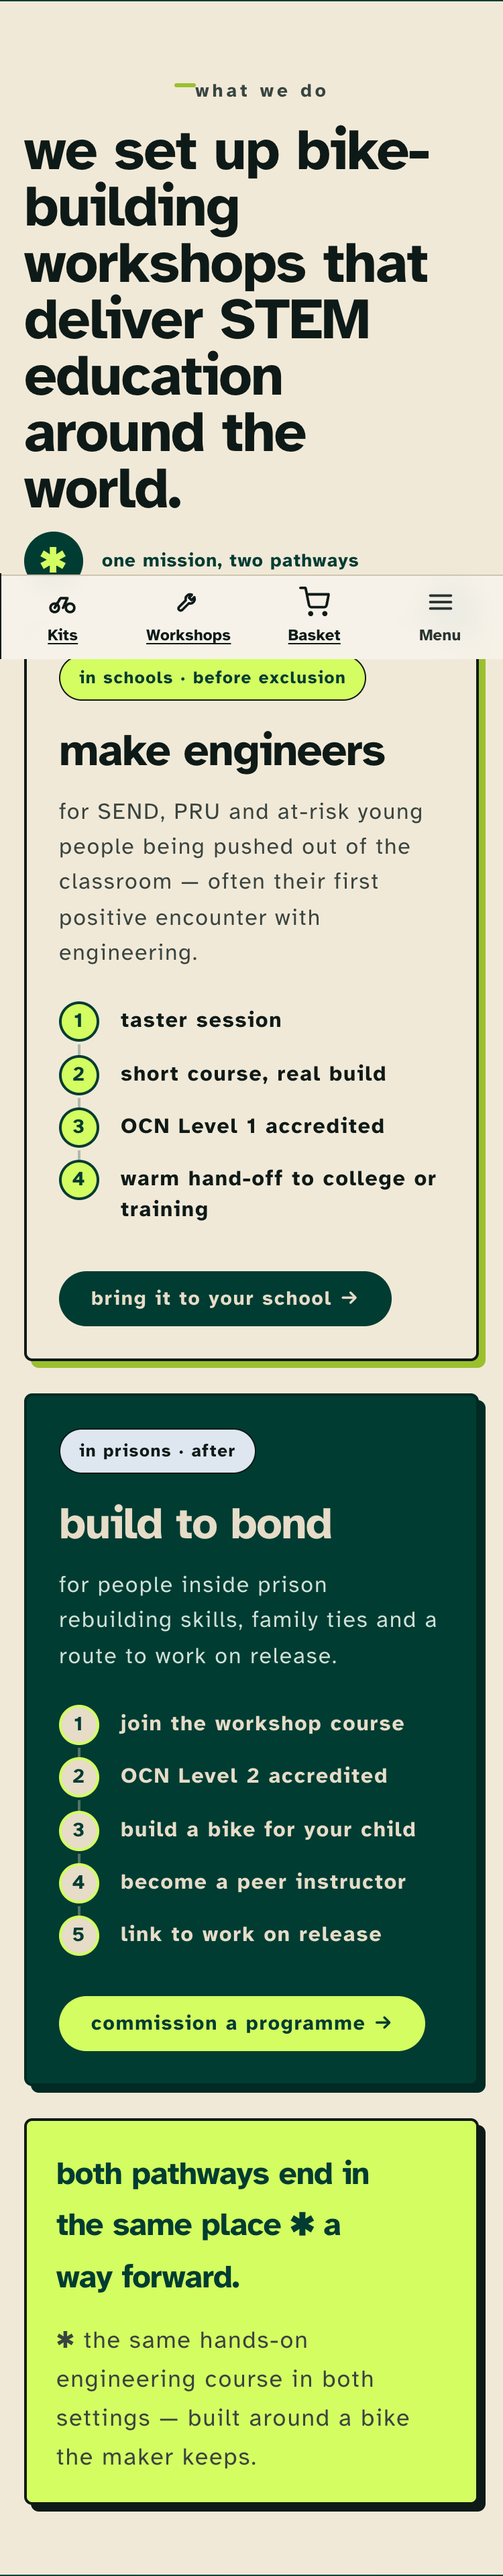
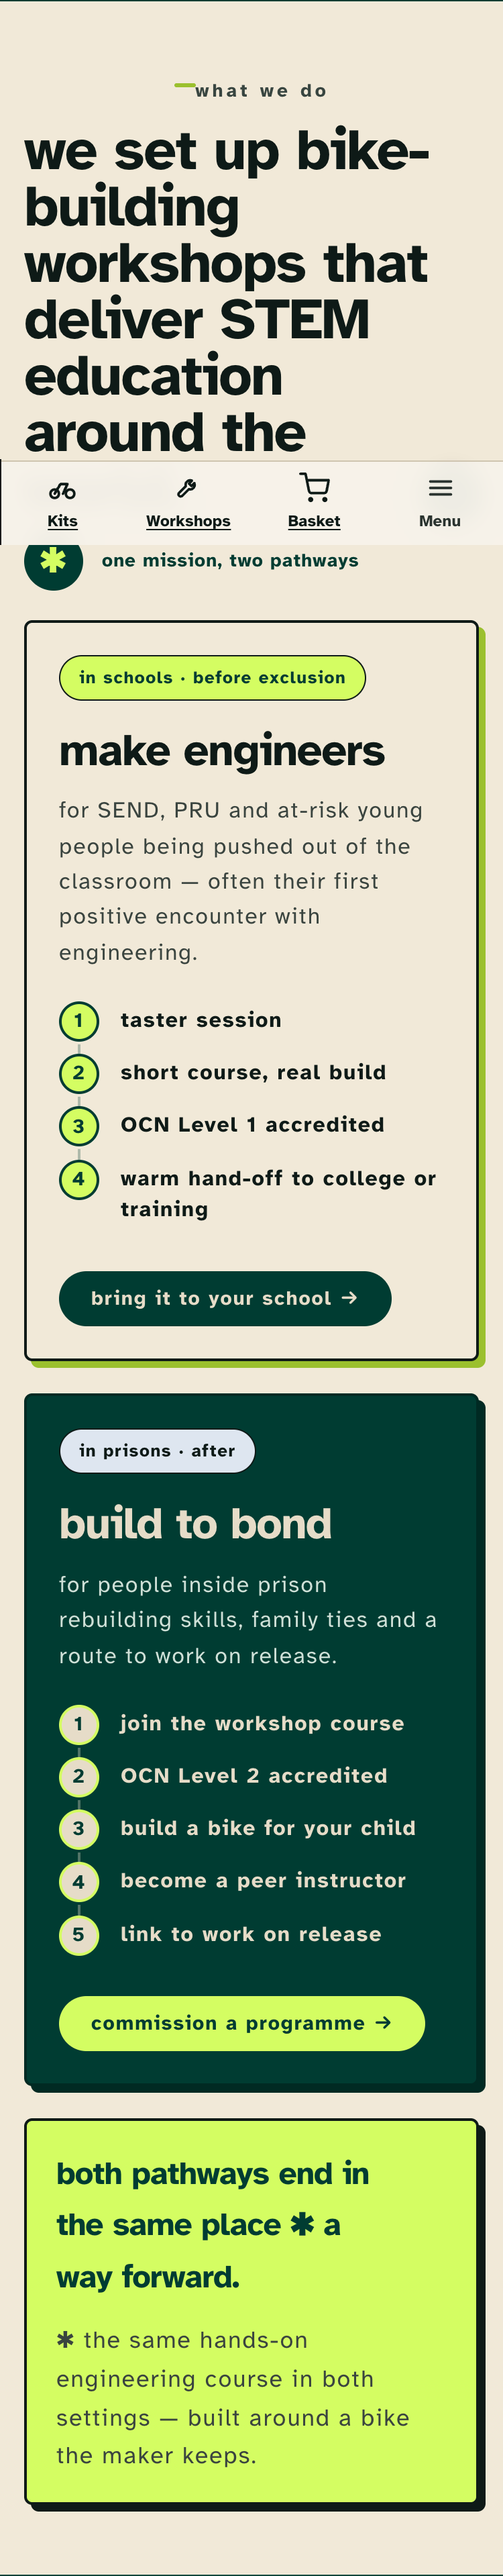
CRIT r3 closures: surface-aware eyebrows (D1 critical), one chip style, left-axis eyebrows, lowercase help titles, Investec dedup

diff --git a/assets/bbc-statement.css b/assets/bbc-statement.css
@@ -648,3 +648,13 @@ cart-drawer.animate .drawer{ visibility:visible; }
   .bbc-rd-impact .rd-backers{ grid-template-columns:repeat(2,1fr); gap:10px; }
   .bbc-rd-impact .rd-backers__cell{ height:auto; min-height:48px; }
 }
+
+/* CRIT r3 closures */
+/* D1: surface-aware eyebrow — lime on dark (was 1.24:1 unreadable) */
+.bbc-rd-impact .rd-dark .rd-eyebrow{ color:var(--lime,#D4FD62) !important; }
+/* D3: eyebrows share the left axis everywhere */
+.bbc-rd-impact .rd-eyebrow{ display:block; text-align:left !important; }
+/* D2: ONE chip style — lime fill, ink border, 800 (tags need !important vs legacy uppercase) */
+.bbc-rd-impact .rd-tag{ text-transform:lowercase !important; font-weight:800 !important; }
+.bbc-rd-impact .rd-backers__chip{ background:var(--lime,#D4FD62); color:var(--forest,#003C32); border:1.5px solid var(--ink,#0E1A17); font-weight:800; }
+.bbc-rd-impact .rd-dlcard__badge{ background:var(--lime,#D4FD62); color:var(--forest,#003C32); border:1.5px solid var(--ink,#0E1A17); border-radius:999px; }

diff --git a/qa/CRIT-impact-today.md b/qa/CRIT-impact-today.md
@@ -1,74 +1,109 @@
-# CRIT (step-5 gate) — /pages/impact — draft 196820238710 — 2026-07-12 (fresh independent re-run)
+# CRIT — /pages/impact (fresh-eyes gate, 2026-07-12)
 
-*Sceptical fresh-eyes CRIT (did not build this page). Driven in real headless Chrome via the repo's Playwright (`chromium-1223`), not the in-app pane. `window.Shopify.theme.id` = **196820238710** confirmed programmatically AND the "CUSTOMTHEME20262 · Draft" preview bar is visible in every capture. Cookies auto-declined (`cookieClicked=true`) on both viewports. Mobile **375×812** first, then desktop **1280×800**. Every px is a measured `getComputedStyle`/`getBoundingClientRect`; every ratio a WCAG contrast computed from sampled fg/effective-bg. Nothing estimated.*
-
-**Evidence:** `qa/evidence/today/` — mobile `band-00-hero.png … band-10-final-cta.png`, desktop `band-00-hero-d.png … band-10-final-cta-d.png`, `gate-metrics-m.json`, `gate-metrics-d.json`. Script: `crit-gate.mjs` (independent of the prior run's `crit.mjs`). Prior CRIT preserved at `qa/evidence/today/CRIT-impact-prior-1838.md.bak`.
-
-**Page-level measured facts**
-| Metric | Mobile 375 | Desktop 1280 |
-|---|---|---|
-| Total height | **14,962px (~18.4 screens)** | 10,245px |
-| Horizontal overflow | **none** (docW 375 = winW, 0 overflowers) | none (docW 1280, 0) |
-| Count-up animation | **none** — 5 timed samples over 1.9s byte-identical | n/a |
-| Banned claims (28k PSI / stronger-than-steel / 56.7 / 11.41 / £280 / 100% / "36+") | **0** | 0 |
-| "learners" / "prisoners" in body | **0 / 0** (Makers voice holds) | 0 / 0 |
-| "45 countries" (not 36+) | ✓ | ✓ |
-| Lowest AAA pairs | ✱ 6.96 (17px/800), Sally cite 7.20 (14px), then ≥7.37 | same |
+**Gate:** step 5 of qa/WORKFLOW.md. Reviewer did not build the page. Binary verdict.
+**Target:** https://bamboobicycleclub.org/pages/impact?preview_theme_id=196820238710
+**Theme confirmed:** `196820238710` (CUSTOMTHEME20262, **Draft**) — asserted via `window.Shopify.theme.id` on both passes, and the "CUSTOMTHEME20262 · Draft" bar is visible in captures. ✓
+**Method:** repo Playwright (chromium-1223, headless) → mobile 375×812 (deviceScaleFactor 2, isMobile) FIRST, cookies declined (`cookieClicked=true`), then desktop 1280. Every band scrolled to trigger lazy-load, screenshotted to `qa/evidence/today/band-NN-name(.-d).png`. Computed px + WCAG contrast ratios measured in-page (never estimated). Raw: `gate-metrics-m.json`, `gate-metrics-d.json`.
 
 ---
 
-## Verified since the prior CRIT (genuine closes)
-| Prior blocker | Now | Evidence |
-|---|---|---|
-| HMPPS crown logo duplicated (60px float in ops band + 170×44 in backers) | ✅ **RESOLVED** — no backer logo images render at all; HMPPS is now a single text chip. `imgs` = workshop, b2b, + 4 press SVGs only. | `gate-metrics-m` imgs; `band-06`, `band-09` |
-| Backers row mixed real logos + text chips | ✅ **RESOLVED** — backers now a uniform text-chip set (NLCF · Investec · LSBU · OCN London · HMPPS · Inside Time); press wall (FT/Guardian/Telegraph/CNN) is the only logo group, all 44px tall. Consistent *within* each group. | `band-09`, imgs 44px |
-| Band-6 footer caption crushed to "hm prison & probation service" | ✅ **FIXED** — renders proper-cased "In partnership with HM Prison & Probation Service" (measured P/800/tt:none). | `band-06`; contrast row |
-| Count-up animating; "~40%"/39%; "both arms" vocab | ✅ all hold — static stats, 39% consistent, "both pathways". | statSamples; band-03/05 |
+## Global checks (measured)
+
+| Check | Mobile 375 | Desktop 1280 | Verdict |
+|---|---|---|---|
+| Theme = draft 196820238710 | ✓ | ✓ | PASS |
+| Horizontal overflow | docW 375 = winW, overflowers **0** | docW 1280 = winW, 0 | PASS |
+| Banned claims (28k PSI / stronger-than-steel / 56.7 / 11.41 / £280 / 100% / 36+) | **none** | none | PASS |
+| Voice: "learners" / "prisoners" in body | both **false** | false | PASS |
+| "45 countries" (updated Proof Bank) | present | present | PASS |
+| Count-up settles to final values | stable across 5 samples | — | PASS |
+| Page length @375 (QA-LOG G1 target ≤11,000px) | **14,843px** | 10,284px | **FAIL (mobile 35% over target)** |
+| Lowest contrast on page | **1.24:1** | 1.24:1 | **FAIL (see D1)** |
+
+Everything below the 1.24 outlier passes AAA: next-lowest is the ✱ glyph at 6.96 (17px/800 = large text, AAA-large 4.5 ✓), cite 7.20, and all body/heads ≥7.37. Contrast is excellent **except the one eyebrow**.
 
 ---
 
-## Per-band FORMULA scorecard
-Rows: **T**ype-roles · **S**ymbols · **L**ogo · **A**natomy/one-axis · **Z**ero-knowledge header · **C**olour-grammar · **AAA**(measured).
+## Per-band scorecard
 
-| # | Band (surface) | T | S | L | A | Z | C | AAA | Verdict |
-|---|---|---|---|---|---|---|---|---|---|
-| 0 | Hero (dark) | ⚠ mob h1 46.9 ✓ largest; **desktop h1 84.5 < h2 86.4 → hero beaten** | ✅ | n/a | ❌ **2 CTAs, 2nd is ghost/outline** | ✅ | ✅ lime-on-dark | 9.12 | **FAIL** (D5 ghost btn; D7 desktop h1<h2) |
-| 1 | Stats (dark) | ✅ nums big | ✅ | n/a | ❌ **no eyebrow, no h2, no lede** — 4 bare numbers hit a stranger cold | ❌ | ✅ | 8.5+ | **FAIL** (D2) |
-| 2 | What we do / fork (paper) | ✅ h3 33.6/46.1 on-scale | ✅ ✱ + numbered nodes + lowercase word-chips | n/a | ⚠ eyebrow centred vs h2 left | ✅ | ✅ paper/forest/lime | 8.5+ | **PASS** (best band; axis nit) |
-| 3 | Why now (dark) | ✅ | ✅ | n/a | ⚠ eyebrow centred vs h2 left | ✅ | ✅ | 8.5+ | **PASS** — 4 stats sourced, 39% consistent |
-| 4 | Inside the workshop (paper) | ✅ | ✅ | n/a | ✅ eyebrow left | ✅ | ✅ | 8.5+ | **PASS** |
-| 5 | Follow-on / Build to Bond (dark) | ✅ Makers casing | ✅ | n/a | ✅ image + split | ✅ 39% cited | ✅ | 8.5+ | **PASS** |
-| 6 | Where we operate (paper) | ⚠ **group h3 = 21px (off the 33.6/46.1 h3 scale)** | ✅ count-badge lime nodes | ✅ no stray logo now | ⚠ eyebrow + footer caption centred; cards left; footer caption **duplicates** in-card "with HM Prison & Probation Service" | ✅ verb-honest, safe, NZ framed as kit destination | ✅ | 8.3+ | **CONDITIONAL** (D1 h3 size; D6 dup caption) |
-| 7 | What's next (paper) | ⚠ node-title h3 21px (off-scale) | ✅ numbered lime nodes | n/a | ✅ | ✅ | ✅ | 8.3+ | **PASS** (no £; but adds page height) |
-| 8 | Get involved / 3 ways (steel) | ⚠ card h3 21px (off-scale) | ❌ **tags BUY/PARTNER/SUPPORT render UPPERCASE/700 — 2nd chip style** | n/a | ⚠ eyebrow centred vs h2 left; SUPPORT card carries a lone lime edge-shadow | ✅ | ✅ forest-on-light fill | 8.0+ | **FAIL** (D3 chip system) |
-| 9 | Recognised by (paper) | ⚠ mixed (report-card h3 21px) | ✅ ✱ promises | ⚠ press logos 44px ✓ but **FT optically 35px vs Telegraph 180px**; backers text-only | ❌ **2,271px — biggest band on page (the G1 driver a funder scrolls before the ask); "AS FEATURED IN" caps line; 6 stacked backer chips** | ✅ | ✅ | 7.20+ | **FAIL** (D4 length) |
-| 10 | Final CTA / Join in (dark) | ✅ | ✅ | n/a | ⚠ eyebrow centred; 2 CTAs incl. ghost "Back the mission"; primary "Run it in your prison →" addresses 1 of 3 audiences | ⚠ adjective headline | ✅ | 8.5+ | **PASS** (nits, James's call) |
+Rows scored against FORMULA.md §1–5. A band passes only if every applicable row passes.
 
-**Cross-cutting (measured):**
-one h1 mobile ✓ · **one h2 size ✓ (43.2 mob / 86.4 desk)** · **TWO h3 sizes ❌ (33.6/46.1 pathways vs 21 for ops-groups + get-involved cards + report card)** · eyebrows uniform 14px but **weight 700 not the §1-spec 800 ❌**, and **alignment splits centre (5 bands) vs left (4) ❌** · buttons: fill colour correct per surface (forest-on-light rgb(0,60,50) / lime-on-dark rgb(212,253,98)) ✓ **but a ghost/outline style (transparent bg + bone border) is a 2nd button style on hero + report link + final CTA ❌** · **chips: lowercase/800 word-chips (pathways) vs UPPERCASE/700 tags (get-involved) ❌** · press logos uniform 44px height ✓ · banned 0 ✓ · Makers voice ✓ · 45 countries ✓ · no h-overflow ✓ · count-up off ✓ · safeguarding: no participant↔prison linkage ✓.
+| # | Band | Type roles | One-left-axis | Chip/symbol system | Contrast | Zero-knowledge header | Verdict |
+|---|---|---|---|---|---|---|---|
+| 00 | hero | h1 48/96px, lowercase ✓ | ✓ all left | tagline eyebrow ✓ | 9.12 ✓ | ✓ mission lede verbatim | **PASS** |
+| 01 | stats | nums lime ✓, 21px labels | ✓ | — | **eyebrow 1.24 ✗** | ✓ | **FAIL** (D1) |
+| 02 | what-we-do (pathways) | display h3 33.6px ✓, nodes ✓ | **eyebrow centered ✗** | pathway chips lc/800 ✓ (internally exemplary) | ✓ | ✓ | **FAIL** (D3 axis only) |
+| 03 | why-now | ✓ | **eyebrow centered ✗** | baseline stat pairs ✓ | ✓ | ✓ | **FAIL** (D3) |
+| 04 | inside-workshop | ✓ | ✓ | — | ✓ | ✓ Cat-B prison named | **PASS** |
+| 05 | follow-on | ✓ | ✓ (left x32) | — | ✓ | ✓ | **PASS** |
+| 06 | where-we-operate | card-titles lc ✓, 21px | **eyebrow centered ✗** | count badges 4/10/3/45 ✓ | ✓ | ✓ franchise framing correct | **FAIL** (D3) |
+| 07 | what's-next | ✓ nodes 1-3, no £ ✓ | ✓ | ✓ | ✓ | ✓ | **PASS** |
+| 08 | get-involved | **card-titles Title-case ✗** | **eyebrow centered ✗** | **UPPERCASE lime chips ✗**; shadow colour inconsistent | ✓ | ✓ | **FAIL** (D2,D3,D4) |
+| 09 | recognised-by | ✓ | ✓ | **funder chips = 3rd style; Investec named 2× ✗** | press logos 44px consistent ✓ | ✓ | **FAIL** (D2,D5) |
+| 10 | final-cta (join in) | ✓ | **eyebrow centered ✗** | — | ✓ | ✓ | **FAIL** (D3) |
+
+**6 of 10 bands fail at least one row.**
 
 ---
 
 ## Ranked defects (selector + fix)
 
-**D1 — Two h3 sizes: type-role "ONE size per role" broken (James directive #1).** Pathway names render **33.6px mob / 46.1px desk** (`.bbc-impact-2026-wrap h3` on the fork cards — on FORMULA §1 scale clamp(2.1rem,3.6vw,2.9rem)), but every other h3 renders **21px**: ops group headers ("schools & universities — we deliver with"), get-involved card titles ("Build or own a bike"), and the report-card title. Two sizes for one role. **Fix:** give the 21px h3s a distinct semantic (they are card/sub-labels, not pathway names) — either demote them to a defined sub-head token OR bring them onto the single h3 scale. Do not leave two live h3 sizes.
+### D1 — CRITICAL · Stats eyebrow is invisible (1.24:1)
+"the record since 2012" renders **dark forest text on the forest stats surface** — measured 1.24:1, below even the 3:1 non-text floor. Its lime leader-dash renders; the words do not (verified in `band-01-stats.png`). The eyebrow colour token is not surface-aware — it uses the light-surface dark-green everywhere.
+**Selector:** `.bbc-impact-2026-wrap` stats band `[class*="eyebrow"]` (span, 14px/700).
+**Fix:** on forest/dark surfaces set eyebrow colour to `--bbc-lime` (#D4FD62) or bone (#E6DCC8) — mirror the surface-inversion the stat sublabels already use. Blocking: an unreadable labelled element ships nothing.
 
-**D2 — Stats band (band 1) has no header: zero-knowledge + band-anatomy FAIL.** Four bare numbers ("90%+ / Level 2 / 4,000+ / 45") are the *first* content after the hero, with no eyebrow/h2/lede (confirmed: first eyebrow in the DOM is "what we do", band 2). FORMULA §4 mandates eyebrow → h2 → lede → content on *every* band. **Fix:** add an eyebrow + explaining h2 to `.bbc-impact-2026-wrap` band-1 (e.g. eyebrow "the numbers" / h2 "what fourteen years adds up to."). Also drop the "Data updated July 2026" line stranded at the band foot, or fold it into the source line.
+### D2 — HIGH · Chip system still not unified (James G5 #1, open since 2026-07-12)
+Four distinct chip treatments live on one page:
+1. pathway chips — 13px/800, **lowercase**, lime fill (`in schools · before exclusion`)
+2. get-involved chips — 14px/700, **UPPERCASE**, lime fill (`BUY` / `PARTNER` / `SUPPORT`)
+3. funder chips — 14px/700, **Title/sentence case**, lime **outline** (`Investec Beyond Business`, `LSBU Innovation Hub`…)
+4. download tag — forest fill (`report`)
+FORMULA §1/§2 mandates ONE chip style; colour differentiates surface, never style. This is the exact headline James rejected the last three passes on.
+**Selector:** get-involved `.rd-card [class*="chip"]`, recognised-by `[class*="chip"]`/funder pills, pathways chips.
+**Fix:** pick one spec — 13–15px, weight **800**, lowercase, one shape (fill on light, outline reserved only if a second semantic is truly needed) — and apply page-wide. Kill the `text-transform:uppercase` on get-involved chips and the title-case on funder chips.
 
-**D3 — Second chip system: get-involved tags render UPPERCASE/700.** Selector: the `buy`/`partner`/`support` pills in band 8 compute `text-transform:uppercase; font-weight:700`, while the pathway chips ("in schools · before exclusion") compute lowercase/800 (FORMULA §1 chip = 13–15px, weight 800, lowercase). Two chip styles on one page (James directive #1: one ruleset for chips). **Fix:** author the get-involved tags to the pathway-chip class — lowercase, weight 800 — so all chips read as one system.
+### D3 — HIGH · One-left-axis broken on 5 of 10 bands
+Eyebrows are centered while their h2 + lede are left-aligned on **what-we-do, why-now, where-we-operate, get-involved, join-in** (measured `text-align:center`, x 101–150, vs h2 x 18). FORMULA §4 "One left axis." This is the recurring G3 defect (QA-LOG line 16) never fully closed — it was fixed on get-involved's h2/lede but the eyebrow above them was left centered.
+**Selector:** the section/eyebrow modifier applying `text-align:center` on those five bands (likely a `.rd-center` / band-level alignment class).
+**Fix:** force eyebrow (and any centered sub-head) to `text-align:left` on these bands so the whole band shares one left axis. Do it once as a wrap-level rule, not band-by-band.
 
-**D4 — G1 page-length still FAILS: mobile 14,962px (~18.4 screens) vs ≤11k target.** The stated definition-of-done. It fell only ~273px from the prior CRIT's 15,235 and remains ~4,000px over target. Main driver unchanged: **band 9 `recognised-by` = 2,271px** (3-promise steel callout + report card + long Investec pull-quote + 4 press logos + "40+ publications" link + "AS FEATURED IN" caps line + **6 vertically-stacked backer chips**), plus the new "what's next" band (615px) was added without compensating cuts. **Fix:** thin band 9 — set the 6 backer chips into a 2–3-per-row wrap grid (not 1/row), collapse the Investec quote to ≤3 lines, drop the redundant caps "AS FEATURED IN" divider, and pair the promises/press/backers tighter. New beats must fold in without growing the total (the plan's rule).
+### D4 — MEDIUM · Card-title h3 casing contradicts itself across bands
+FORMULA row 10: card-title h3 = 21px **lowercase**. where-we-operate + follow-on obey it (`prison programmes — we run`); **get-involved uses Title case** (`Build or own a bike`, `Run it in your prison`, `Fund or champion`). Same role, two cases, on one page.
+**Selector:** get-involved `.rd-card h3` (21px/800, tt:none).
+**Fix:** lowercase the three card titles at source (copy+style together per FORMULA §7 lesson), or set the h3 rule `text-transform:lowercase` for this role globally.
 
-**D5 — Ghost/outline button is a 2nd button style (James directive #1).** Measured: "Back the mission" (hero, dark) and "Read the 2026 impact report →" and "Back the mission" (final CTA) compute `background:rgba(0,0,0,0); border:2px solid rgb(230,220,200)` — an outline style alongside the solid forest/lime fills. FORMULA §1: "ONE style." **Fix:** make secondary actions the same pill fill (lime-on-dark / forest-on-light) with a weight/opacity difference if hierarchy is needed, or demote them to plain inline links — not a third button skin.
+### D5 — MEDIUM · Duplicate name breaks the once-per-page logo/name rule
+"Investec Beyond Business" is printed **twice** in recognised-by — once as the quote-card attribution ("Investec Beyond Business — backing BBC since 2025") and again as a funder chip below. FORMULA §3 "each logo … ONCE per page."
+**Selector:** recognised-by quote `cite` + funder chip list.
+**Fix:** drop one instance — keep the quote attribution, remove the redundant Investec funder chip (or vice-versa). (OCN also recurs across stats / steel-callout / chip, but as accreditation prose not a logo — lower priority, tidy if trimming.)
 
-**D6 — Eyebrow spec + one-axis both off.** Eyebrows compute **weight 700** (FORMULA §1 chip/eyebrow = weight 800) and their alignment **splits centre (what-we-do, why-now, where-we-operate, get-involved, join-in) vs left (inside-workshop, follow-on, what's-next, recognised-by)** — FORMULA §4 "one left axis." **Fix:** set every eyebrow to weight 800 and one alignment (left, to match the h2/lede left axis). Also delete the band-6 footer caption "In partnership with HM Prison & Probation Service" — it is a centred duplicate of the line already inside the prisons card.
+### D6 — MEDIUM · Mobile page still 35% over the length target
+14,843px @375 vs QA-LOG G1 target ≤11,000px (was 15,179 — only −2% this pass). The recognised-by band (~2,067px) and the pathways band (~1,918px) are the largest cuts available.
+**Fix:** per QA-LOG A5/G1 plan — the length work is not done; recognised-by still stacks steel callout + report card + quote card + press grid + funder chips at full height.
 
-**D7 — Desktop hero is not the largest type.** At 1280 the hero h1 = **84.5px** but band h2 = **86.4px** — a band head (§1) exceeds the hero display moment ("nothing rivals it"). Marginal (1.9px) but mechanically the hero loses. **Fix:** nudge the hero h1 clamp up (or the h2 clamp down) so h1 > h2 at every breakpoint.
+### Minor (non-blocking, log for the fix pass)
+- **M1** Eyebrow weight is 700 across the page; FORMULA §1 chip/eyebrow = weight **800**. Bump for consistency.
+- **M2** Steel callout uses `see for yourself →` as an **underlined inline link ×3** acting as a CTA — FORMULA §1 "never underlined links as CTAs." Borderline (inline body links), but the repetition reads as three buttons.
+- **M3** get-involved 3rd card ("SUPPORT") has a **lime** hard drop-shadow while cards 1–2 have dark shadows — inconsistent within one row.
+- **M4** get-involved band carries **3 primary fill CTAs** (FORMULA §1 "max one primary per band"). Defensible 3-card pattern, but flags against the literal rule.
+- **M5** `bbc-rd-b2b.jpg` computes 544px wide inside the 375 viewport (clipped, no overflow) — confirm the full-bleed crop is intentional.
+- **Hierarchy note (not a defect):** hero h1 exceeds spec (48/96px vs the 5.4rem cap) which *helps* — but the FORMULA itself caps h1 and h2 both at 5.4rem, so band heads (86.4px desktop) sit only ~11% below the hero. The hero still reads as the display moment because it wraps to 3 full lines; flagging the formula's own weak h1/h2 separation for James, not dinging the build.
 
-**Nits (non-blocking):** ✱ glyph contrast 6.96:1 at 17px/800 is a hair under AAA 7:1 (decorative; all real copy ≥7.20) · FT press logo optically tiny (35px wide monogram) beside Telegraph 180px though row height is uniform 44px · "see for yourself →" proof links are underlined (acceptable as inline links, not primary CTAs).
+---
+
+## What's genuinely good (be fair)
+- Hero is now a real display moment — 3 big lowercase lines over a darkened workshop photo, lime tagline, mission lede **verbatim** to the locked wording, clean fill/outline button pair. James's "hero not large on my phone" complaint reads as largely addressed at 375.
+- Voice + claims are clean: 0 banned claims, 0 "learners/prisoners", "45 countries", "90%+", OCN levels correctly split (L1 schools / L2 prisons), franchise hubs correctly "our partners run", NZ used as kit-reach not a hub — all consistent with OPERATIONS-MAP.
+- The **pathways band is reference-quality** — fork node, differentiated lime/steel pathway identities carrying words not colour alone, numbered nodes, converge strip, STEM preserved uppercase. It is the proof the one-system look is achievable; the rest of the page just hasn't been leveled up to it.
+- Buttons ARE consistent: 15px, 999px pill, 2px, forest-fill-on-light / lime-fill-on-dark / bone-outline — the most disciplined system on the page.
+- Press logos share one height (44px desktop / 38px mobile), grouped "featured in" separate from "backed by" per §3.
+- No horizontal overflow, no missing/broken images, count-ups settle.
 
 ---
 
 ## VERDICT: **FAIL**
 
-The FORMULA is a binary contract — a band ships only if every row passes. Four bands FAIL (hero, stats, get-involved, recognised-by) and one is CONDITIONAL (where-we-operate). Real progress is banked — the HMPPS logo duplicate, the logo/text mixing, the proper-noun crush, count-up, banned claims, Makers voice, safeguarding and AAA (bar one decorative glyph) are all clean — but the whole-page universal-style pass James demanded is not done: **two h3 sizes, two chip styles, a ghost button style, weight-700 mixed-axis eyebrows, a header-less stats band, and a ~15k-px page length that missed the ≤11k target.** Back to WORKFLOW step 2. Do not hand to James (step 6).
+Per FORMULA line 2 ("a band ships only if every row passes") and James's directive that this page IS the formula for every other page: **6 of 10 bands fail a row.** The two blockers are D1 (a labelled eyebrow at 1.24:1 is literally unreadable) and D2 (the chip system is still not unified — the specific thing rejected the last three passes). D3 (half the bands break the one-left-axis rule) compounds the "too many styles" verdict. The page is materially better than prior passes and close, but it is not at the standard. Return to WORKFLOW step 2 for a whole-page pass closing D1–D6 together (copy+style per band), then re-CRIT before James.
+
+*Evidence: `qa/evidence/today/band-00…10-*.png` (mobile) + `-d.png` (desktop), `gate-metrics-m.json`, `gate-metrics-d.json`.*

diff --git a/qa/evidence/2026-07-12/final-pass.md b/qa/evidence/2026-07-12/final-pass.md
@@ -5,3 +5,4 @@ G1+A6 18:23:02: heading shortened, quote2 dropped, body2 trimmed, press 6->4. A1
 CRIT-round2 fixes 18:40:36: dup HMPPS removed, backers all-chips (uniform until Investec/LSBU logo files), frame/partner labels proper-case, card-title unified 21px, source-line dedupe, credit-line dups dropped
 stats band label 'the record since 2012' added (James) 18:43:16
 CRIT r2 closures 18:48:54: FORMULA role clarifications (pathway-name display + card-title 21 + secondary outline sanctioned), eyebrow 800, tags lowercase, backers 2-up mobile, h1 desktop 96px, quote trimmed, featured-in lowercase. D2 already fixed by James's 'record since 2012'.
+CRIT r3 closures 18:58:39: D1 lime eyebrow on dark, D2 one chip style, D3 left-axis eyebrows, D4 lowercase card titles, D5 Investec dedup
